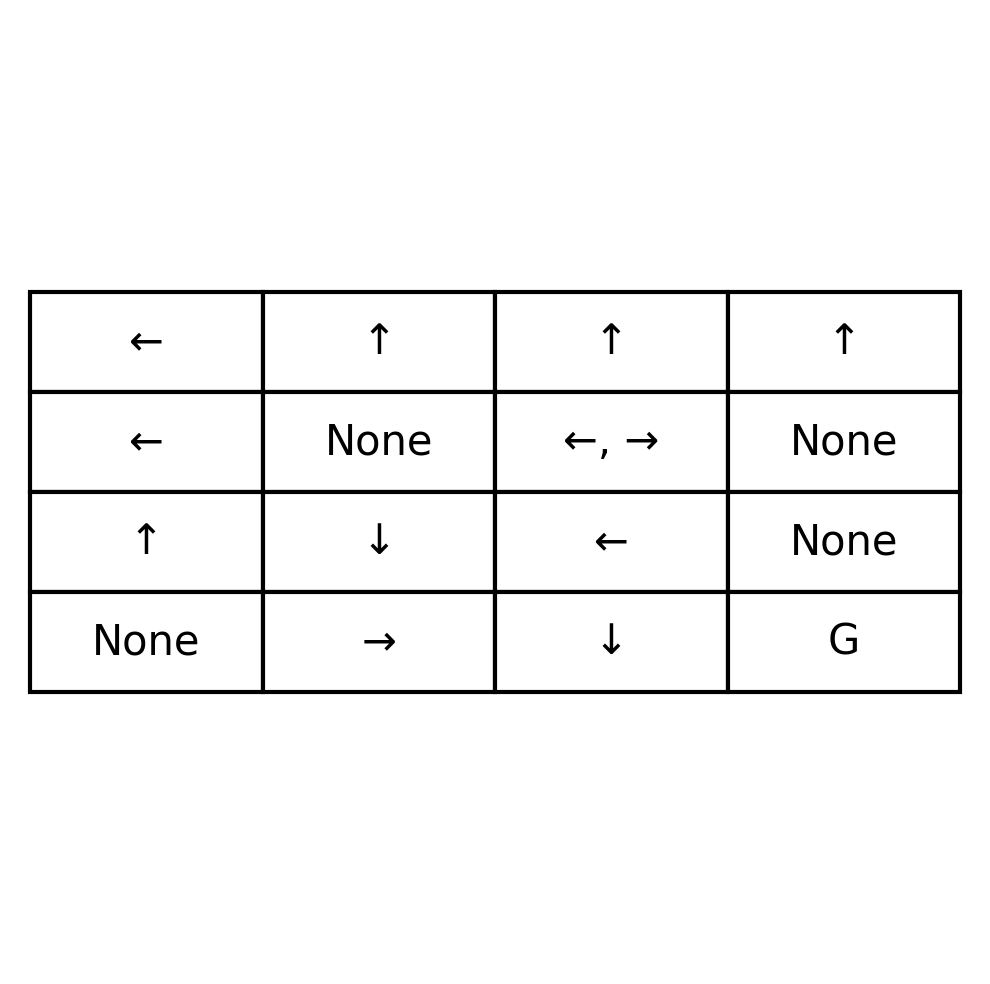
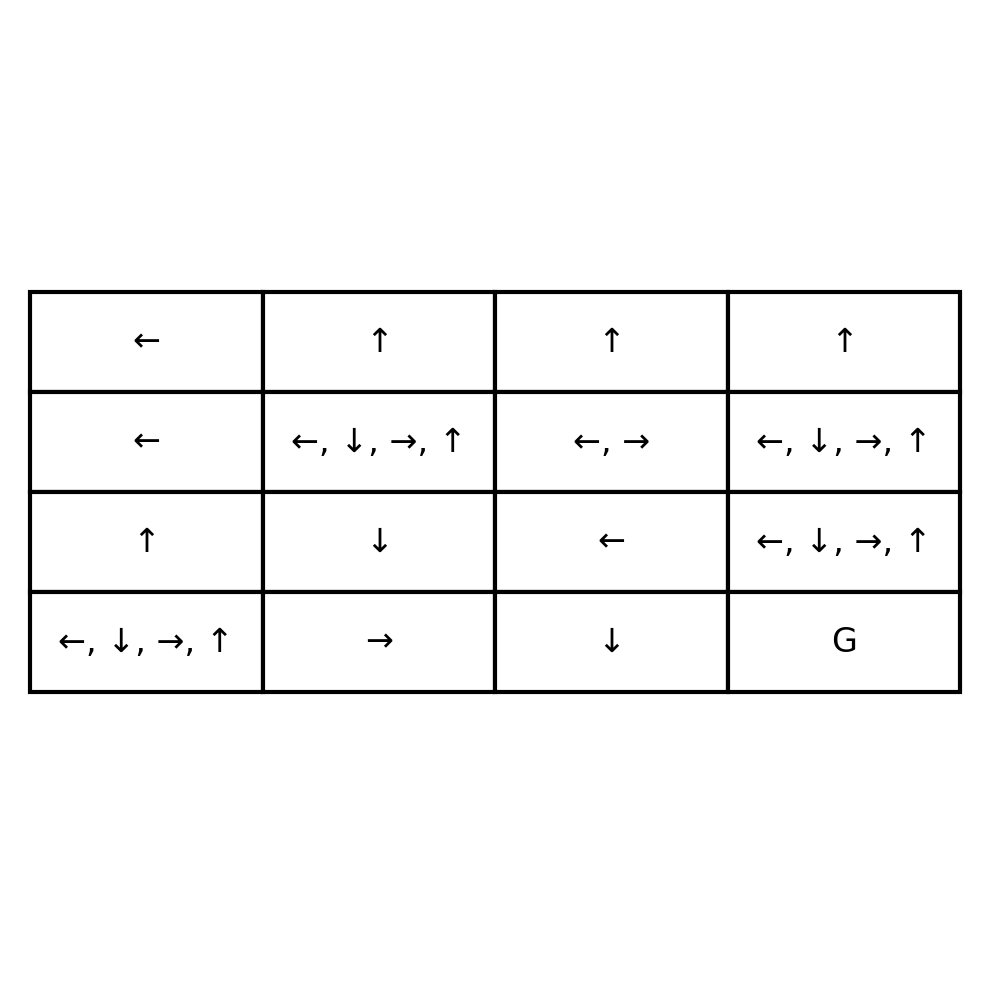
Removed Check for Terminal state

diff --git a/value_iteration/value_iteration.py b/value_iteration/value_iteration.py
@@ -11,20 +11,11 @@ sys.path.append(parent_dir)
 from policy_testing_functions import convert_to_arrows, save_table, test_policy
 
 
-def is_action_fully_terminal(env, state, action):
-    transitions = env.P[state][action]
-    for prob, next_state, reward, terminated in transitions:
-        if not terminated:
-            return False
-    return True
-
-
 def value_iteration(env):
     theta = 1e-10
     gamma = 1
 
     value_function = np.zeros(env.observation_space.n)
-    value_function[env.observation_space.n - 1] = 1
 
     while True:
         new_value_function = np.copy(value_function)
@@ -33,10 +24,6 @@ def value_iteration(env):
             Q_values = []
 
             for a in range(env.action_space.n):
-
-                if is_action_fully_terminal(env, s, a):
-                    continue
-
                 q = 0
                 for prob, new_state, reward, _ in env.P[s][a]:
                     q += prob * (reward + gamma * new_value_function[new_state])
@@ -65,9 +52,6 @@ def extract_policy(env, value_function):
         Q_values = {}
 
         for a in range(env.action_space.n):
-            if is_action_fully_terminal(env, s, a):
-                continue
-
             q = 0
             for prob, new_state, reward, _ in env.P[s][a]:
                 q += prob * (reward + gamma * new_value_function[new_state])
